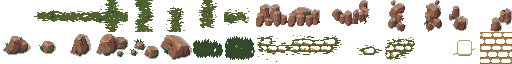
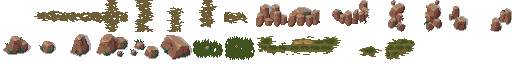
Add MVP trees for humid climate, fix index 0 trees ignored bug

diff --git a/src/generation/resources/metadata.rs b/src/generation/resources/metadata.rs
@@ -49,33 +49,20 @@ impl Metadata {
       })
       .collect();
 
-    let set = BiomeMetadataSet {
-      top: bm.get(&Direction::Top).expect(format!("No top metadata for {}", cg).as_str()),
-      top_right: bm
-        .get(&Direction::TopRight)
-        .expect(format!("No top right metadata for {}", cg).as_str()),
-      right: bm
-        .get(&Direction::Right)
-        .expect(format!("No right metadata for {}", cg).as_str()),
-      bottom_right: bm
-        .get(&Direction::BottomRight)
-        .expect(format!("No bottom right metadata for {}", cg).as_str()),
-      bottom: bm
-        .get(&Direction::Bottom)
-        .expect(format!("No bottom metadata for {}", cg).as_str()),
-      bottom_left: bm
-        .get(&Direction::BottomLeft)
-        .expect(format!("No bottom left metadata for {}", cg).as_str()),
-      left: bm
-        .get(&Direction::Left)
-        .expect(format!("No left metadata for {}", cg).as_str()),
-      this: bm.get(&Direction::Center).expect(format!("No metadata for {}", cg).as_str()),
-      top_left: bm
-        .get(&Direction::TopLeft)
-        .expect(format!("No top left metadata for {}", cg).as_str()),
+    let biome_metadata_set = BiomeMetadataSet {
+      top: bm[&Direction::Top],
+      top_right: bm[&Direction::TopRight],
+      right: bm[&Direction::Right],
+      bottom_right: bm[&Direction::BottomRight],
+      bottom: bm[&Direction::Bottom],
+      bottom_left: bm[&Direction::BottomLeft],
+      left: bm[&Direction::Left],
+      this: bm[&Direction::Center],
+      top_left: bm[&Direction::TopLeft],
     };
-    info!("Biome metadata for {}: {}", cg, set);
-    set
+    trace!("Biome metadata for {}: {}", cg, biome_metadata_set);
+
+    biome_metadata_set
   }
 }
 

diff --git a/src/generation/resources/generation_resources_collection.rs b/src/generation/resources/generation_resources_collection.rs
@@ -165,8 +165,9 @@ pub struct ObjectResources {
   pub l3_dry: AssetCollection,
   pub l3_moderate: AssetCollection,
   pub l3_humid: AssetCollection,
-  pub trees_moderate: AssetCollection,
   pub trees_dry: AssetCollection,
+  pub trees_moderate: AssetCollection,
+  pub trees_humid: AssetCollection,
 }
 
 impl GenerationResourcesCollection {
@@ -199,7 +200,7 @@ impl GenerationResourcesCollection {
       (TerrainType::Land2, Climate::Humid, _) => &self.objects.l2_humid,
       (TerrainType::Land3, Climate::Dry, true) => &self.objects.trees_dry,
       (TerrainType::Land3, Climate::Moderate, true) => &self.objects.trees_moderate,
-      (TerrainType::Land3, Climate::Humid, true) => &self.objects.trees_moderate,
+      (TerrainType::Land3, Climate::Humid, true) => &self.objects.trees_humid,
       (TerrainType::Land3, Climate::Dry, _) => &self.objects.l3_dry,
       (TerrainType::Land3, Climate::Moderate, _) => &self.objects.l3_moderate,
       (TerrainType::Land3, Climate::Humid, _) => &self.objects.l2_humid,
@@ -287,7 +288,9 @@ fn initialise_resources_system(
   asset_collection.objects.trees_dry.stat =
     AssetPack::new(asset_server.load(TREES_DRY_OBJ_PATH), static_trees_atlas_layout.clone());
   asset_collection.objects.trees_moderate.stat =
-    AssetPack::new(asset_server.load(TREES_MODERATE_OBJ_PATH), static_trees_atlas_layout);
+    AssetPack::new(asset_server.load(TREES_MODERATE_OBJ_PATH), static_trees_atlas_layout.clone());
+  asset_collection.objects.trees_humid.stat =
+    AssetPack::new(asset_server.load(TREES_HUMID_OBJ_PATH), static_trees_atlas_layout);
 
   // Objects: Terrain
   asset_collection.objects.water = object_assets_static(&asset_server, &mut layouts, WATER_DEEP_OBJ_PATH);

diff --git a/src/constants.rs b/src/constants.rs
@@ -103,9 +103,10 @@ pub const SINGLE: usize = 15;
 pub const ERROR: usize = 16;
 // ------------------------------------------------------------------------------------------------------
 // Objects
+pub const TREES_HUMID_OBJ_PATH: &str = "objects/trees-conifer-humid.png";
 pub const TREES_MODERATE_OBJ_PATH: &str = "objects/trees-conifer-moderate.png";
 pub const TREES_DRY_OBJ_PATH: &str = "objects/trees-conifer-dry.png";
-pub const TREES_OBJ_COLUMNS: u32 = 5;
+pub const TREES_OBJ_COLUMNS: u32 = 6;
 pub const TREES_OBJ_ROWS: u32 = 1;
 pub const TREES_OBJ_SIZE: UVec2 = UVec2::new(64, 128);
 pub const WATER_DEEP_OBJ_PATH: &str = "objects/objects-water-deep.png";

diff --git a/src/generation/object/object_generator.rs b/src/generation/object/object_generator.rs
@@ -58,7 +58,6 @@ pub fn generate_object_data(
   let object_grid_len = grid.grid.len();
   let mut object_generation_data = (grid.clone(), spawn_data.1.clone());
   let object_data = { wfc::determine_objects_in_grid(&mut rng, &mut object_generation_data, &settings) };
-
   debug!(
     "Generated object data for {} objects for chunk {} in {} ms on {}",
     object_grid_len,
